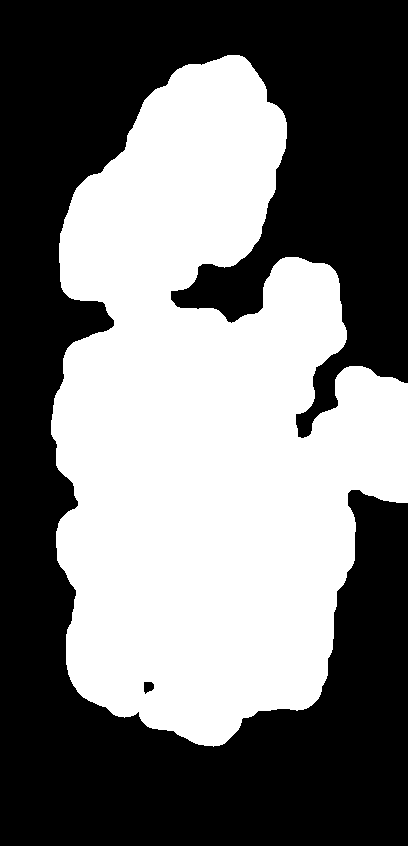
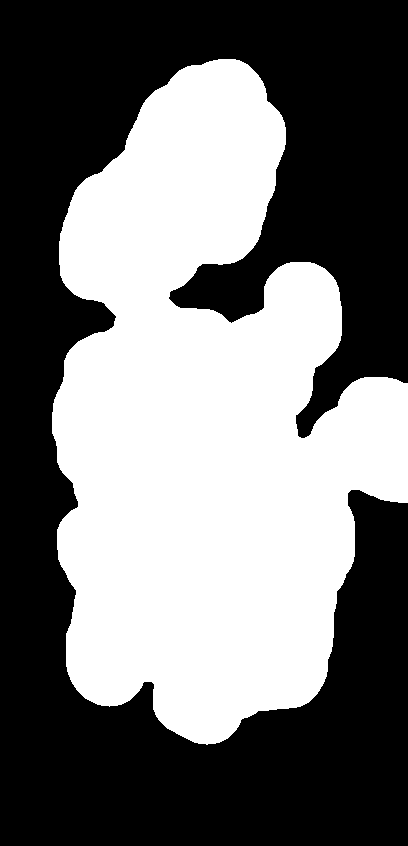
masks changes regarding the lesion_type

diff --git a/src/main.py b/src/main.py
@@ -124,13 +124,17 @@ def main_task(img_array, img_index, lesion_type):
         plt.show()
     #plt.show()
    # clustered = clustering.create_mask(binary, thresh=1, rayon=200//(resizingFactor), show_clustering=1) 
-    opening_kernel = cv2.getStructuringElement(cv2.MORPH_ELLIPSE, (7,7)) # (10, 10) for melanoma
-    
+    if (lesion_type == 'nevus'):
+        opening_kernel = cv2.getStructuringElement(cv2.MORPH_ELLIPSE, (7,7))
+    else:
+        opening_kernel = cv2.getStructuringElement(cv2.MORPH_ELLIPSE, (10,10))
     clustered = cv2.morphologyEx(binary, cv2.MORPH_OPEN, opening_kernel)
     #clustered = 1-scipy.ndimage.binary_fill_holes(clustered)
     clustered = 1-clustered
-    #opening_kernel = cv2.getStructuringElement(cv2.MORPH_ELLIPSE, (10,10))
-    kernel = cv2.getStructuringElement(cv2.MORPH_ELLIPSE, (10,10)) # (7, 7)
+    if (lesion_type == 'nevus'):
+        kernel = cv2.getStructuringElement(cv2.MORPH_ELLIPSE, (10,10))
+    else:
+        kernel = cv2.getStructuringElement(cv2.MORPH_ELLIPSE, (7,7))
     clustered = clustered.astype('uint8')
     #clustered = cv2.morphologyEx(clustered, cv2.MORPH_OPEN, opening_kernel)
     if plot == 1:
@@ -145,7 +149,10 @@ def main_task(img_array, img_index, lesion_type):
         plt.title("After closing")
         plt.show()
     #plt.show()
-    opening_kernel = cv2.getStructuringElement(cv2.MORPH_ELLIPSE, (40,40))
+    if (lesion_type == 'nevus'):
+        opening_kernel = cv2.getStructuringElement(cv2.MORPH_ELLIPSE, (40,40))
+    else:
+        opening_kernel = cv2.getStructuringElement(cv2.MORPH_ELLIPSE, (70,70))
     clustered = cv2.morphologyEx(clustered, cv2.MORPH_OPEN, opening_kernel)
     #clustered = CCL.CCL(clustered)
     if plot == 1:
